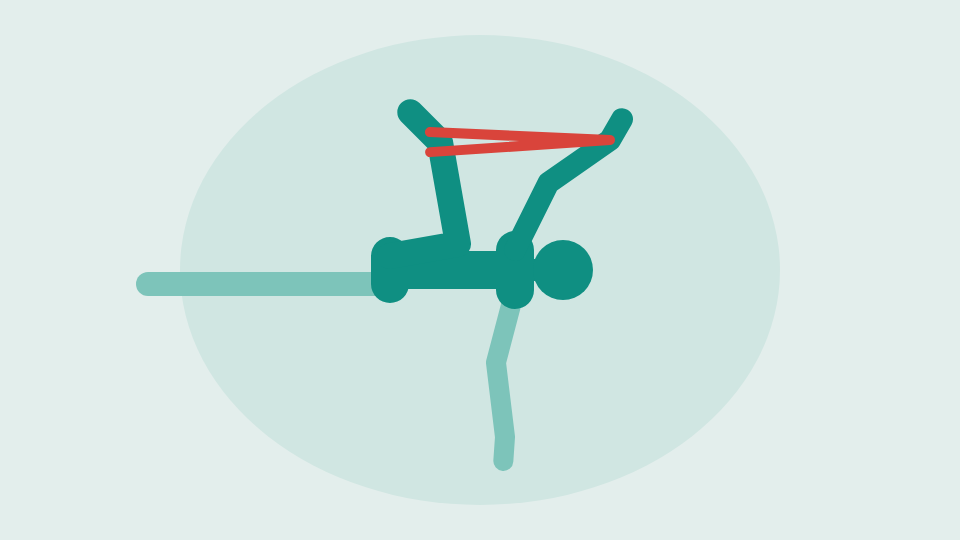
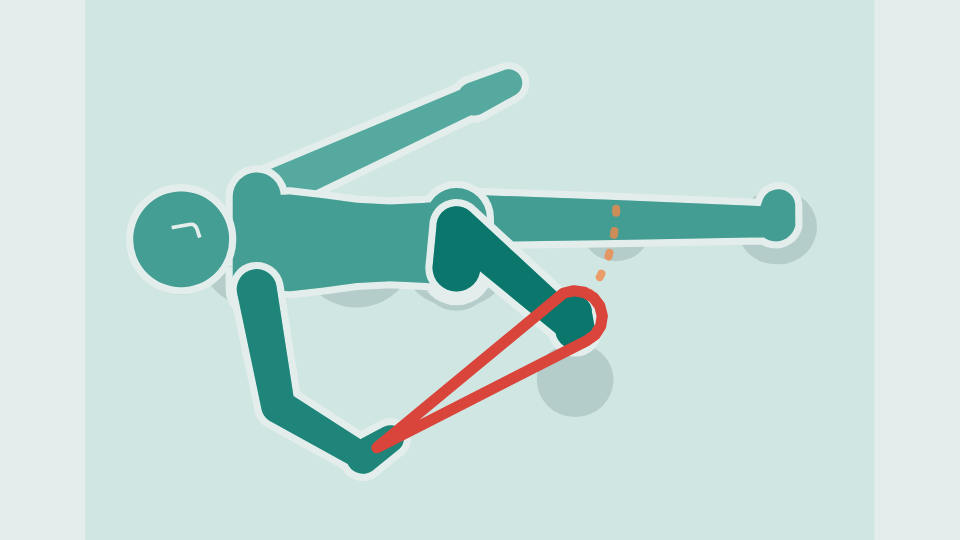
feat: add back lying reverse pigeon and belly down foot splay animations with related updates

Changed region(s): [[0.125, 0.1185, 0.875, 0.8889]]

diff --git a/src/lib/rig3d.test.ts b/src/lib/rig3d.test.ts
@@ -3,7 +3,9 @@ import {
   ACTIVE_PANCAKE_3D,
   ACTIVE_STRAIGHT_LEG_RAISE_3D,
   ANKLE_MOBILIZATION_3D,
+  BACK_LYING_REVERSE_PIGEON_3D,
   BEHIND_THE_BACK_CHEST_OPENER_3D,
+  BELLY_DOWN_FOOT_SPLAY_3D,
   CAT_COW_3D,
   HIP_ABDUCTION_3D,
   HIP_EXTERNAL_ROTATION_3D,
@@ -67,6 +69,17 @@ function joints(skeleton: Skeleton): Vec3[] {
 }
 
 const STANDING: Pose3 = { pelvis: [0, 213, 0] };
+
+/** The direction from one point to another. */
+function unitBetween(a: Vec3, b: Vec3): Vec3 {
+  const length = distance(a, b);
+  return [(b[0] - a[0]) / length, (b[1] - a[1]) / length, (b[2] - a[2]) / length];
+}
+
+/** Halfway between two points. */
+function midpoint(a: Vec3, b: Vec3): Vec3 {
+  return [(a[0] + b[0]) / 2, (a[1] + b[1]) / 2, (a[2] + b[2]) / 2];
+}
 
 /** The angle at `b` between the bones to `a` and `c`: 180 for a straight limb. */
 function angleAt(a: Vec3, b: Vec3, c: Vec3): number {
@@ -294,6 +307,8 @@ describe('3D clips', () => {
       'active-straight-leg-raise',
       'ankle-mobilization',
       'behind-the-back-chest-opener',
+      'back-lying-reverse-pigeon',
+      'belly-down-foot-splay',
       'warmup-marching',
     ]));
   });
@@ -622,6 +637,75 @@ describe('3D clips', () => {
     expect(lifted(skeletons[0])).toBeLessThan(15);
     expect(Math.max(...skeletons.map(lifted))).toBeGreaterThan(45);
     expect(Math.max(...skeletons.map(lifted))).toBeLessThan(55);
+  });
+
+  it('swings the foot out on a strap in one hand, the knee held over the hip at 90°, in back lying reverse pigeon', () => {
+    const clip = BACK_LYING_REVERSE_PIGEON_3D;
+    const skeletons = samples(clip).map(solvePose);
+    const start = skeletons[0];
+    for (const { rightLeg, leftLeg } of skeletons) {
+      // The knee stays over the hip, bent to 90° with the shin level.
+      expect(distance(rightLeg[1], start.rightLeg[1])).toBeCloseTo(0);
+      expect(rightLeg[1][0]).toBeCloseTo(rightLeg[0][0]);
+      expect(rightLeg[1][2]).toBeCloseTo(rightLeg[0][2]);
+      expect(angleAt(rightLeg[0], rightLeg[1], rightLeg[2])).toBeCloseTo(90);
+      expect(rightLeg[2][1]).toBeCloseTo(rightLeg[1][1]);
+      // The other leg stays flat on the floor.
+      expect(angleAt(leftLeg[0], leftLeg[1], leftLeg[2])).toBeCloseTo(180);
+      expect(leftLeg[2][1]).toBeLessThan(14);
+    }
+    // How far the shin has swung out to the figure's right from pointing down the body.
+    const out = ({ rightLeg }: Skeleton) => (Math.atan2(rightLeg[2][2] - rightLeg[1][2], rightLeg[2][0] - rightLeg[1][0]) * 180) / Math.PI;
+    expect(out(start)).toBeCloseTo(0);
+    expect(Math.max(...skeletons.map(out))).toBeCloseTo(42);
+    // Both ends of the strap are in the right hand, and it keeps its length all the way.
+    for (const skeleton of skeletons) {
+      const loop = strapPoints(skeleton, clip.strap!);
+      const [rightEnd, leftEnd] = [loop[0], loop[loop.length - 1]];
+      const around = loop.slice(1, -1);
+      expect(distance(rightEnd, leftEnd)).toBeCloseTo(0);
+      expect(distance(rightEnd, midpoint(skeleton.rightArm[2], skeleton.rightArm[3]))).toBeCloseTo(0);
+      const middle = midpoint(around[0], around[around.length - 1]);
+      expect(Math.abs(distance(rightEnd, middle) - 170)).toBeLessThan(3);
+      // It goes around the side of the foot away from the hand, so it has something to pull on,
+      // in a half circle that stands clear of the foot: further from its middle than the foot is
+      // wide, all the way around.
+      const footLine = unitBetween(skeleton.rightLeg[2], skeleton.rightLeg[3]);
+      for (const point of around) {
+        expect(distance(rightEnd, point)).toBeGreaterThanOrEqual(distance(rightEnd, around[0]) - 0.5);
+        const off: Vec3 = [point[0] - middle[0], point[1] - middle[1], point[2] - middle[2]];
+        expect(off[0] * footLine[0] + off[1] * footLine[1] + off[2] * footLine[2]).toBeCloseTo(0);
+        expect(Math.hypot(...off)).toBeGreaterThan(16);
+      }
+      // The hand is further out to the side than the foot it pulls.
+      expect(rightEnd[2]).toBeGreaterThan(skeleton.rightLeg[2][2]);
+    }
+  });
+
+  it('lets both feet fall out to the sides with the knees down at 90° in belly down foot splay', () => {
+    const skeletons = samples(BELLY_DOWN_FOOT_SPLAY_3D).map(solvePose);
+    const start = skeletons[0];
+    for (const { rightLeg, leftLeg, spine } of skeletons) {
+      for (const [leg, first] of [[rightLeg, start.rightLeg], [leftLeg, start.leftLeg]] as const) {
+        // The knees stay where they are on the floor, bent to 90°.
+        expect(distance(leg[1], first[1])).toBeCloseTo(0);
+        expect(leg[1][1]).toBeLessThan(14);
+        expect(angleAt(leg[0], leg[1], leg[2])).toBeCloseTo(90);
+      }
+      // A little apart, with room for a pillow, and the two sides mirror each other.
+      expect(rightLeg[1][2] - leftLeg[1][2]).toBeGreaterThan(2 * SKELETON.hip);
+      expect(rightLeg[1][2] - leftLeg[1][2]).toBeLessThan(3 * SKELETON.hip);
+      expect(leftLeg[2][2]).toBeCloseTo(-rightLeg[2][2]);
+      expect(leftLeg[2][1]).toBeCloseTo(rightLeg[2][1]);
+      // Lying flat.
+      for (const point of spine) expect(point[1]).toBeCloseTo(spine[0][1]);
+    }
+    // The feet start over the knees and end well apart, lower than they started.
+    const apart = ({ rightLeg, leftLeg }: Skeleton) => rightLeg[2][2] - leftLeg[2][2];
+    const fallen = solvePose(BELLY_DOWN_FOOT_SPLAY_3D.keyframes[BELLY_DOWN_FOOT_SPLAY_3D.stillFrame].pose);
+    expect(apart(start)).toBeCloseTo(start.rightLeg[1][2] - start.leftLeg[1][2]);
+    expect(apart(fallen)).toBeGreaterThan(apart(start) + 2 * SKELETON.shin * Math.sin((40 * Math.PI) / 180));
+    expect(fallen.rightLeg[2][1]).toBeLessThan(start.rightLeg[2][1] - 20);
   });
 
   it('draws a strap only for a clip that has one, from hand to foot and back', () => {

diff --git a/src/data/exercise-animations-3d.ts b/src/data/exercise-animations-3d.ts
@@ -1007,3 +1007,113 @@ export const BEHIND_THE_BACK_CHEST_OPENER_3D: Clip3D = {
     ...alongArc(1600, CHEST_OPENER_STEPS, (t) => chestOpener(1 - t)),
   ],
 };
+
+// --- Back lying reverse pigeon: lying on the back, knee held over the hip at 90°, a strap pulls the foot out to the side ---
+
+const REVERSE_PIGEON_STRAP = { foot: 'rightFoot', hand: 'rightHand' } as const;
+/** The strap doesn't stretch, so the hand is always this far from the ball of the foot. */
+const REVERSE_PIGEON_STRAP_LENGTH = 170;
+/** The most the thigh turns inward: about the average result for adults (Hallaçeli 2014). */
+const REVERSE_PIGEON_TURN = HIP_ROTATION;
+
+/**
+ * The right thigh straight up over the hip and the knee at 90°, so the shin is level, with the
+ * thigh turned this far inward, which swings the foot out to the side. The right hand holds both
+ * ends of the strap and pulls from the foot toward `pull`, out beside the ribs.
+ */
+const reversePigeonAt = (degrees: number, pull: Vec3): Pose3 => {
+  const pose: Pose3 = {
+    ...LYING_ON_BACK,
+    rightLeg: { flex: 90, knee: 90, rotate: -degrees },
+    leftLeg: LEG_FLAT,
+    leftArm: { abduct: 25 },
+  };
+  // The middle of the foot where the strap loops around it, which is the same wherever the hand is.
+  const loop = strapPoints(solvePose(pose), REVERSE_PIGEON_STRAP);
+  const [right, left] = [loop[1], loop[loop.length - 2]];
+  const ball: Vec3 = [(right[0] + left[0]) / 2, (right[1] + left[1]) / 2, (right[2] + left[2]) / 2];
+  const gap = Math.hypot(pull[0] - ball[0], pull[1] - ball[1], pull[2] - ball[2]);
+  const toHand: Vec3 = [(pull[0] - ball[0]) / gap, (pull[1] - ball[1]) / gap, (pull[2] - ball[2]) / gap];
+  // The strap runs to the middle of the hand, half a hand past the wrist.
+  const reach = REVERSE_PIGEON_STRAP_LENGTH + SKELETON.hand / 2;
+  return {
+    ...pose,
+    pins: {
+      rightHand: {
+        at: [ball[0] + toHand[0] * reach, ball[1] + toHand[1] * reach, ball[2] + toHand[2] * reach],
+        toward: [-toHand[0], -toHand[1], -toHand[2]],
+        pole: [0, -0.3, 1],
+      },
+    },
+  };
+};
+/** This far into the turn, from 0, the shin pointing straight down the body, to 1. The hand draws out and up toward the shoulder as the foot comes around. */
+const reversePigeon = (t: number): Pose3 => reversePigeonAt(REVERSE_PIGEON_TURN * t, [-60 - 10 * t, 40 - 5 * t, 120 + 30 * t]);
+const REVERSE_PIGEON_IN = reversePigeon(0);
+const REVERSE_PIGEON_OUT = reversePigeon(1);
+const REVERSE_PIGEON_STEPS = 8;
+
+export const BACK_LYING_REVERSE_PIGEON_3D: Clip3D = {
+  view: '3d',
+  // From almost straight above, looking down the raised thigh, where the shin swings out over the
+  // floor like the hand of a clock.
+  camera: { yaw: 0, pitch: 75 },
+  highlight: ['rightLeg'],
+  trail: 'rightFoot',
+  strap: REVERSE_PIGEON_STRAP,
+  stillFrame: 1 + REVERSE_PIGEON_STEPS,
+  keyframes: [
+    { ms: 0, pose: REVERSE_PIGEON_IN },
+    { ms: 500, pose: REVERSE_PIGEON_IN },
+    ...alongArc(2000, REVERSE_PIGEON_STEPS, reversePigeon),
+    { ms: 3500, pose: REVERSE_PIGEON_OUT },
+    ...alongArc(2000, REVERSE_PIGEON_STEPS, (t) => reversePigeon(1 - t)),
+  ],
+};
+
+// --- Belly down foot splay: lying face down with the knees at 90°, the feet fall out to the sides ---
+
+const PRONE_PELVIS_Y = 22;
+/** How far the thighs slope down from the hips to knees resting on the floor. */
+const PRONE_THIGH_DROP = (Math.asin((PRONE_PELVIS_Y - ANKLE_Y) / SKELETON.thigh) * 180) / Math.PI;
+
+/**
+ * Face down with the head toward +x, the hands on the floor either side of the head and the elbows
+ * out. The knees are bent to 90°, a little apart as if around a pillow, and both thighs are turned
+ * this far inward, which lets the feet fall out to the sides.
+ */
+const footSplayAt = (degrees: number): Pose3 => {
+  const leg: LegPose = { flex: PRONE_THIGH_DROP, abduct: 3, knee: 90, rotate: -degrees };
+  return {
+    pelvis: [0, PRONE_PELVIS_Y, 0],
+    lean: 90,
+    neck: { flex: -10 },
+    rightLeg: leg,
+    leftLeg: leg,
+    pins: {
+      rightHand: { at: [172, WRIST_Y, 78], toward: [1, 0, -0.3], pole: [-0.3, 0, 1] },
+      leftHand: { at: [172, WRIST_Y, -78], toward: [1, 0, 0.3], pole: [-0.3, 0, -1] },
+    },
+  };
+};
+const FOOT_SPLAY_UP = footSplayAt(0);
+/** About the average result for adults (Hallaçeli 2014). */
+const FOOT_SPLAY_OUT = footSplayAt(HIP_ROTATION);
+
+export const BELLY_DOWN_FOOT_SPLAY_3D: Clip3D = {
+  view: '3d',
+  // From in front of the head and well above, a little to the right: thighs, shins and feet run
+  // on up the screen one after the other, none hiding the next, and the shins fall apart across
+  // it. From behind the feet, each foot lies over its own shin, the thighs come at the camera as
+  // stumps, and the neck shows through the head. No trail: both feet move.
+  camera: { yaw: 75, pitch: 50 },
+  highlight: ['rightLeg', 'leftLeg'],
+  stillFrame: 2,
+  keyframes: [
+    { ms: 0, pose: FOOT_SPLAY_UP },
+    { ms: 500, pose: FOOT_SPLAY_UP },
+    { ms: 2000, pose: FOOT_SPLAY_OUT },
+    { ms: 3500, pose: FOOT_SPLAY_OUT },
+    { ms: 1800, pose: FOOT_SPLAY_UP },
+  ],
+};

diff --git a/src/lib/rig3d.ts b/src/lib/rig3d.ts
@@ -139,8 +139,11 @@ export type Clip3D = {
    */
   over?: readonly Part[];
   scenery?: readonly Block[];
-  /** A strap looped around the ball of this foot, with an end held in each hand. */
-  strap?: 'rightFoot' | 'leftFoot';
+  /**
+   * A strap looped around the ball of this foot, with an end held in each hand. With a `hand`, that
+   * one hand holds both ends, which is how a foot is pulled out to the side.
+   */
+  strap?: 'rightFoot' | 'leftFoot' | { foot: 'rightFoot' | 'leftFoot'; hand: 'rightHand' | 'leftHand' };
   /** The phone a test is measured with, held in a hand or strapped to a limb. */
   phone?: PhoneMount;
   /** A tape measure lying flat from one point to another, on the floor or the top of a block. */
@@ -904,13 +907,29 @@ const STRAP_ALONG_FOOT = 0.72;
 /** How far the strap sits from the middle of the foot: out to each side, and under the sole. */
 const STRAP_HALF_WIDTH = 11;
 const STRAP_UNDER_SOLE = 9;
+/**
+ * A strap looped around a foot in one hand keeps this far from the middle of the foot: past the
+ * foot's edge by half the strap's own width, so it's drawn around the foot and not over it.
+ */
+const STRAP_LOOP_RADIUS = 17;
+/** How many straight pieces the half circle around the foot is drawn in. */
+const STRAP_LOOP_STEPS = 8;
 
 /**
  * Where a strap around a foot runs in the room: from the middle of the right hand, down the right
- * side of the foot, under the ball of it, and back up the left side to the left hand.
+ * side of the foot, under the ball of it, and back up the left side to the left hand. Held in one
+ * hand, it's a loop: from the hand to one side of the foot, in a half circle around the side away
+ * from the hand, whichever that is as the foot turns, and back from the other side to the same
+ * hand. The half circle stands clear of the foot, so the strap goes around it rather than across
+ * it. The points after the first and before the last are where it starts and ends, level with the
+ * middle of the foot.
  */
-export function strapPoints(skeleton: Skeleton, foot: NonNullable<Clip3D['strap']>): Vec3[] {
+export function strapPoints(skeleton: Skeleton, strap: NonNullable<Clip3D['strap']>): Vec3[] {
   'worklet';
+  const foot = typeof strap === 'string' ? strap : strap.foot;
+  const hand = typeof strap === 'string' ? undefined : strap.hand;
+  const rightEnd = hand === 'leftHand' ? skeleton.leftArm : skeleton.rightArm;
+  const leftEnd = hand === 'rightHand' ? skeleton.rightArm : skeleton.leftArm;
   const leg = foot === 'rightFoot' ? skeleton.rightLeg : skeleton.leftLeg;
   const along = unit(sub(leg[3], leg[2]), [1, 0, 0]);
   const shin = unit(sub(leg[2], leg[1]), [0, -1, 0]);
@@ -918,12 +937,27 @@ export function strapPoints(skeleton: Skeleton, foot: NonNullable<Clip3D['strap'
   const sole = unit(sub(shin, scaled(along, dot(shin, along))), [0, -1, 0]);
   let side = cross(along, sole);
   if (dot(side, skeleton.spineRight[0]) < 0) side = scaled(side, -1);
+  if (hand) {
+    const held = lerpVec(rightEnd[2], rightEnd[3], 0.5);
+    const middle = add(leg[2], scaled(along, SKELETON.foot * STRAP_ALONG_FOOT));
+    // The way to the hand, as near as a direction square to the foot can be, and across the foot from there.
+    const toHand = sub(held, middle);
+    const pull = unit(sub(toHand, scaled(along, dot(toHand, along))), sole);
+    const across = cross(along, pull);
+    const points: Vec3[] = [held];
+    for (let step = 0; step <= STRAP_LOOP_STEPS; step++) {
+      const angle = (step / STRAP_LOOP_STEPS - 0.5) * Math.PI;
+      points.push(add(middle, add(scaled(across, -STRAP_LOOP_RADIUS * Math.sin(angle)), scaled(pull, -STRAP_LOOP_RADIUS * Math.cos(angle)))));
+    }
+    points.push(held);
+    return points;
+  }
   const ball = add(add(leg[2], scaled(along, SKELETON.foot * STRAP_ALONG_FOOT)), scaled(sole, STRAP_UNDER_SOLE));
   return [
-    lerpVec(skeleton.rightArm[2], skeleton.rightArm[3], 0.5),
+    lerpVec(rightEnd[2], rightEnd[3], 0.5),
     add(ball, scaled(side, STRAP_HALF_WIDTH)),
     add(ball, scaled(side, -STRAP_HALF_WIDTH)),
-    lerpVec(skeleton.leftArm[2], skeleton.leftArm[3], 0.5),
+    lerpVec(leftEnd[2], leftEnd[3], 0.5),
   ];
 }
 

diff --git a/src/data/exercises.ts b/src/data/exercises.ts
@@ -8,7 +8,9 @@ import {
   ACTIVE_PANCAKE_3D,
   ACTIVE_STRAIGHT_LEG_RAISE_3D,
   ANKLE_MOBILIZATION_3D,
+  BACK_LYING_REVERSE_PIGEON_3D,
   BEHIND_THE_BACK_CHEST_OPENER_3D,
+  BELLY_DOWN_FOOT_SPLAY_3D,
   CAT_COW_3D,
   LEG_SWINGS_3D,
   NINETY_TO_NINETY_3D,
@@ -18,8 +20,6 @@ import {
 } from './exercise-animations-3d';
 
 import {
-  BACK_LYING_REVERSE_PIGEON,
-  BELLY_DOWN_FOOT_SPLAY,
   BLACKBURN,
   BOTTOM_SQUAT,
   BOTTOM_SQUAT_ROTATION,
@@ -1209,7 +1209,7 @@ const ALL_EXERCISES: Exercise[] = [
       'Relax and let gravity lower your shins, and hold',
     ],
     photo: require('@/assets/images/exercises/belly-down-foot-splay.png'),
-    animation: BELLY_DOWN_FOOT_SPLAY,
+    animation: BELLY_DOWN_FOOT_SPLAY_3D,
   },
   {
     id: 'lying-windshield-wiper-hold',
@@ -1241,7 +1241,7 @@ const ALL_EXERCISES: Exercise[] = [
       'Let the thigh rotate inward and hold, then switch sides',
     ],
     photo: require('@/assets/images/exercises/back-lying-reverse-pigeon.png'),
-    animation: BACK_LYING_REVERSE_PIGEON,
+    animation: BACK_LYING_REVERSE_PIGEON_3D,
     twoSided: true,
   },
   {

diff --git a/README.md b/README.md
@@ -72,7 +72,7 @@ The old engine poses a flat figure in screen coordinates. Anything moving toward
 - **The camera** is per clip: `yaw` 0 looks at the figure's right side, 90 at its front, 180 at its left; `pitch` 0 is level with the floor, 90 looks straight down. The frame is fitted to the whole movement, so the figure fills it; `fit: 'upper'` frames from the pelvis up and `fit: 'lower'` the pelvis and legs (knee to wall, where the arms on the wall are left out of the frame).
 - **Draw order** is by depth every frame, and parts are shaded darker the nearer they are, with a background-colored outline so crossing limbs stay apart. The head is ordered against the part of a limb right beside it rather than the limb's average depth, so a head dropping between the arms (cat cow) stays behind the near arm. Limbs go over or under the torso the same way, by where they overlap it: the side of the body the shoulder or hip is on, unless part of the limb comes out clear of the torso's surface further out (an arm across the chest). Passing the middle of the torso isn't enough, or a far thigh lifting forward (marching) flips over the hips partway up. Averages put the high chest in front of a whole leg below it when the camera looks down, which tucked a leg swinging back behind the hips. Square to the camera (a figure seen straight from the front), arms go over the torso and legs under the hips. A clip can name limbs that stay over the torso regardless (`over`): the 90 to 90 rotations do for both legs, whose thighs come off the front of the hips toward the camera and lie out to the side without ever coming clear of them. Turn the camera a little toward the arm or leg that moves if the still one should tuck behind its shoulder or hip, as the shoulder tests do. The head goes over the torso unless the neck points well away from the camera; by average depth, a body lying away from the camera (overhead reach) covered the head and the neck showed through it. Two limbs on the same side of the torso that overlap go by which is in front where they cross, too: hands holding a raised shin (knee to chest) are in front of it there, though the leg lifted toward a camera above it is nearer on average. Where a hand moving to its target would really pass behind a limb, the order follows that, so route it around with a keyframe (knee to chest opens the hands either side of the knee before closing them on the shin).
 - **Scenery** (`scenery`) is blocks with their sides square to the room, each from one corner to the opposite one: a wall, a box, a table top and its legs. They're drawn behind the figure, over the mat and the shadows, so pick a camera that looks past the figure at them, not through them. For a wall or box the figure faces, that means from a little behind (knee to wall and sit and reach use a negative `yaw`). Scenery doesn't change the frame, so a wall can run off the top of it; the mat reaches under anything standing on the floor. Blocks are drawn far side first along whichever axis separates them, not by the distance to their middles, which put a table's front legs over its top.
-- **A strap** (`strap: 'rightFoot'`) loops around the ball of a foot with an end in each hand, drawn over the figure. Pin both hands, and keep them the same distance from the foot in every pose so the strap doesn't stretch (`strapHeldAt` in the clips file does this for the straight leg raise).
+- **A strap** (`strap: 'rightFoot'`) loops around the ball of a foot with an end in each hand, drawn over the figure. Pin both hands, and keep them the same distance from the foot in every pose so the strap doesn't stretch (`strapHeldAt` in the clips file does this for the straight leg raise). `strap: { foot: 'rightFoot', hand: 'rightHand' }` puts both ends in one hand instead, for pulling a foot out to the side (back lying reverse pigeon); pin that hand. The loop goes in a half circle around the side of the foot away from the hand, standing clear of the foot so it's drawn around it and not across it. It stands in for a band there: it's drawn the same, and doesn't stretch.
 - **What a test is measured with** goes where its instructions put it. `phone` holds it in a hand, in line with the forearm (`bone: 2`), or straps it to the upper arm or thigh (`bone: 0`) or forearm or shin (`bone: 1`), `at` that far along from the shoulder or hip, on the limb's `front`, `back`, `outside` or `inside`. The front of a leg is the kneecap's side, of an arm the side the elbow folds toward; a straight limb takes the body's front. A strapped phone has a strap around the limb behind it, like an armband, and on the far side of the limb it goes under it. Its screen shows the reading in seven-segment digits: how far the phone has turned since the clip's first pose, plus `startReading` (90 for overhead reach, which starts with the arm at the ceiling), so it reads the angle the test measures. `tape` lays a tape measure flat from one point to another, on the floor or a block's top, and the frame takes it in. Every flexibility test measured by angle has a phone, every one measured by distance a tape (`rig3d.test.ts` checks).
 - **A partner** isn't drawn. `partner: true` puts a "With a partner" badge over the animation instead (the seated hip rotations).
 - **Teaching cues**: `highlight` draws the parts the exercise is about in the accent color; `trail` draws the path one hand or foot takes as a dotted line, which helps for rotations and sweeps. It's drawn just under the limb making it, so it shows over the rest of the body behind that limb (the standing leg in leg swings).
@@ -141,17 +141,17 @@ Moved to the new engine:
 | Active straight leg raise | Library | `ACTIVE_STRAIGHT_LEG_RAISE_3D` |
 | Ankle mobilization | Library | `ANKLE_MOBILIZATION_3D` |
 | Behind the back chest opener | Library | `BEHIND_THE_BACK_CHEST_OPENER_3D` |
+| Back lying reverse pigeon | Library | `BACK_LYING_REVERSE_PIGEON_3D` |
+| Belly down foot splay | Library | `BELLY_DOWN_FOOT_SPLAY_3D` |
 
 Still on the old engine (clip names in `exercise-animations.ts`). Where a clip needs something the new engine doesn't have yet, it's noted.
 
-All ten flexibility tests are on the new engine. The last six to move (knee to wall, the two seated hip rotations, sit and reach, knee to chest and straight leg raise) haven't been checked on a device yet, so their old clips are still in `exercise-animations.ts`; delete them once they have. The same goes for the three 90 to 90 clips in the library (`NINETY_TO_NINETY_ROTATIONS` has to stay either way: windshield wipers with knee lift is built on it), and for the two pancake clips (`PANCAKE_UP` has to stay either way: the seated straddle side bend is built on it), and for the active straight leg raise, ankle mobilization and the behind the back chest opener.
+All ten flexibility tests are on the new engine. The last six to move (knee to wall, the two seated hip rotations, sit and reach, knee to chest and straight leg raise) haven't been checked on a device yet, so their old clips are still in `exercise-animations.ts`; delete them once they have. The same goes for the three 90 to 90 clips in the library (`NINETY_TO_NINETY_ROTATIONS` has to stay either way: windshield wipers with knee lift is built on it), and for the two pancake clips (`PANCAKE_UP` has to stay either way: the seated straddle side bend is built on it), and for the active straight leg raise, ankle mobilization, the behind the back chest opener, back lying reverse pigeon and belly down foot splay.
 
 Library (`src/data/exercises.ts`):
 
 | Exercise | Clip | Needs |
 |---|---|---|
-| Back lying reverse pigeon | `BACK_LYING_REVERSE_PIGEON` | |
-| Belly down foot splay | `BELLY_DOWN_FOOT_SPLAY` | |
 | Blackburn | `BLACKBURN` | |
 | Bottom squat | `BOTTOM_SQUAT` | |
 | Bottom squat rotation | `BOTTOM_SQUAT_ROTATION` | |
